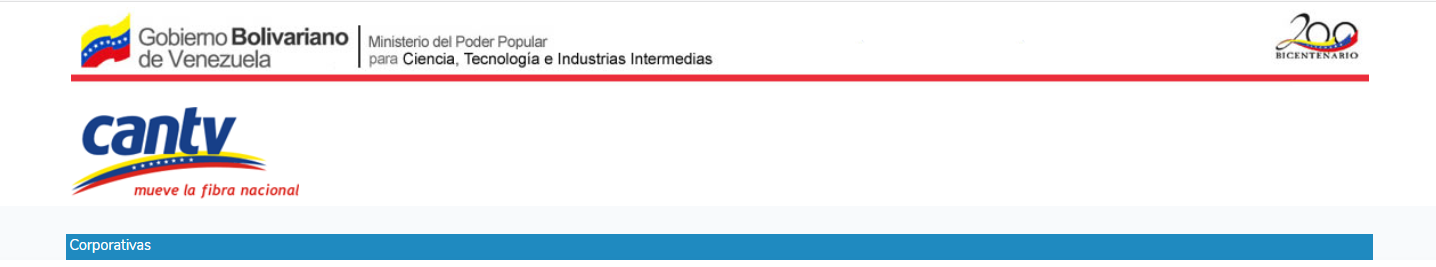
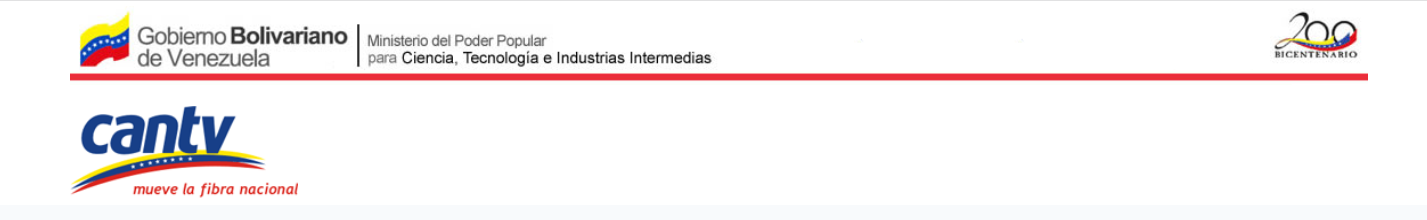
menu azul

Changed region(s): [[0.0308, 0.0545, 0.9559, 0.3818], [0.0308, 0.4091, 0.9559, 0.9818]]

diff --git a/public/css/click.css b/public/css/click.css
@@ -3,10 +3,10 @@ body{
     height: 100%;
 }
 
-.centrador{
-    text-align: center;
-    margin-top: 1%;
-    margin-bottom: -0.5%;
+#centrador{
+  text-align: center;
+    margin-top: -0.3%;
+    margin-bottom: -3%;
   }
 
 
@@ -84,8 +84,24 @@ body{
   }
 
 .navbar-laravel {
-      background-color: #cfd8dc;
+    background-color: #01579b;
     }
 
+  .pagination{
+    padding-left:424px;
+  }
+
+  .navbar-light .navbar-brand {
+    color:white;
+  }
+
+  .navbar-light .navbar-nav .nav-link {
+    color:white;
+  }
+
+  .body{
+    background-color: red;
+
+  }
 
 }

diff --git a/resources/views/layouts/app.blade.php b/resources/views/layouts/app.blade.php
@@ -31,9 +31,9 @@
 <body>
 
 
-  <div id="centrador">
+  <!-- <div id="centrador">
     <img src= "imagenes/corpo.png" class="img-fluid" alt="Responsive" >
-  </div>
+  </div> -->
 
 
 
@@ -53,7 +53,7 @@
 
                 <div class="collapse navbar-collapse" id="navbarSupportedContent">
                     <!-- Left Side Of Navbar -->
-                    
+
 
                     <!-- Right Side Of Navbar -->
                     <ul class="navbar-nav ml-auto">
@@ -99,8 +99,8 @@
         </main>
     </div>
 
-    
- 
+
+
 <script type="text/javascript" src="DataTables/datatables.min.js"></script>
     <!-- <script src="//cdnjs.cloudflare.com/ajax/libs/jquery/2.1.3/jquery.min.js"></script>
     <script src="//cdnjs.cloudflare.com/ajax/libs/twitter-bootstrap/3.3.5/js/bootstrap.min.js"></script>

diff --git a/resources/views/cargado/edit.blade.php b/resources/views/cargado/edit.blade.php
@@ -25,7 +25,7 @@
                     <input type="text" class="form-control" id="status" name="status" style="border-color: black;">
                 </div>
                 <button class="btn btn-primary" type="submit" >Aceptar</button>
-                <a class="btn btn-secondary" href="{{ route('cargado.index') }}">Back</a>
+                <a class="btn btn-secondary" href="{{ route('cargado.index') }}">Cancelar</a>
             </form>
         </div>
     </div>

diff --git a/resources/views/layouts/app2.blade.php b/resources/views/layouts/app2.blade.php
@@ -31,7 +31,7 @@
 
 
   <div id="centrador">
-    <img src= "imagenes/token.png" class="img-fluid" alt="Responsive" >
+    <img src= "imagenes/corpo.png" class="img-fluid" alt="Responsive">
   </div>
 
 
@@ -98,10 +98,10 @@
         </main>
     </div>
 
-    
- 
 
-  
- 
+
+
+
+
 </body>
 </html>

diff --git a/resources/views/cargado/index.blade.php b/resources/views/cargado/index.blade.php
@@ -35,7 +35,10 @@
                     </tr>
             @endforeach
             </table>
+            <ul class="pagination" role="navigation">
             {{ $cargado->render()}}
+          </ul>
+
             </div>
           </div>
         </div>

diff --git a/resources/views/auth/login.blade.php b/resources/views/auth/login.blade.php
@@ -1,7 +1,9 @@
-@extends('layouts.app')
+@extends('layouts.app2')
 
 @section('content')
+
 <div class="container">
+  
     <div class="row justify-content-center">
 
 
